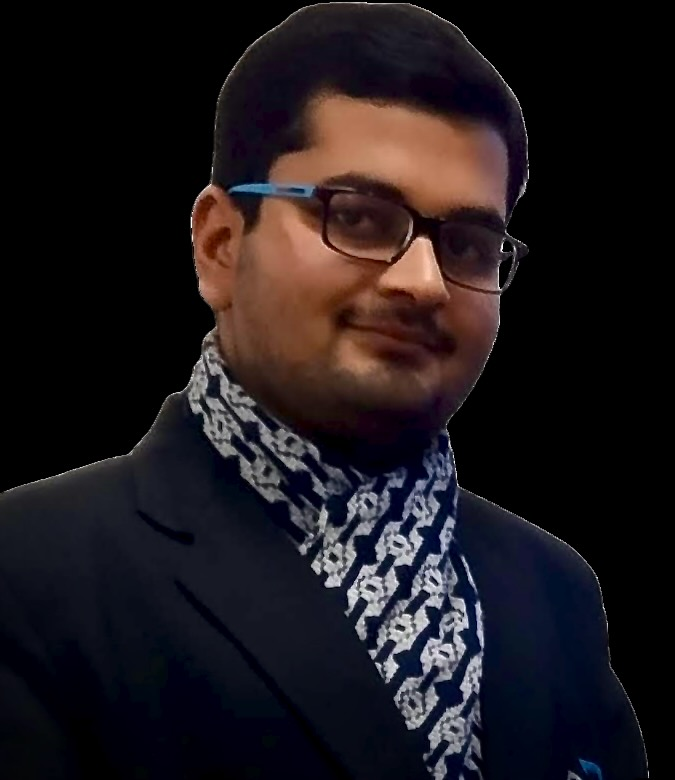
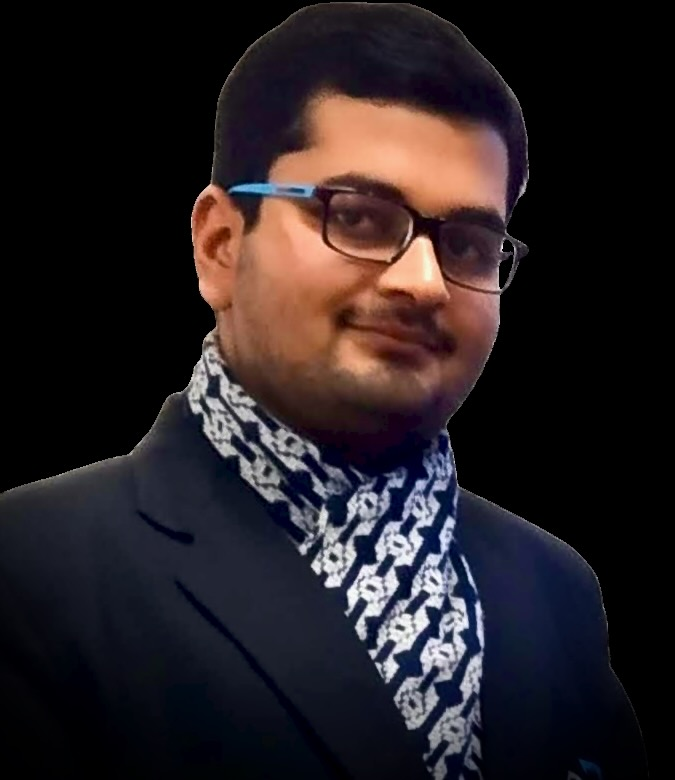
Finalizing MyImage

diff --git a/Portfolio.html b/Portfolio.html
@@ -19,7 +19,7 @@
     </nav>
 
     <header class="about-header">
-        <img src="./assets/images/MyImage (1).jpeg" alt="Your Profile Picture" class="profile-pic">
+        <img src="./assets/images/MyImage.jpeg" alt="Your Profile Picture" class="profile-pic">
         <h1>Kartikey Garg</h1>
         <p>Test Specialist | Lifelong Learner | AI Enthusiast</p>
     </header>
